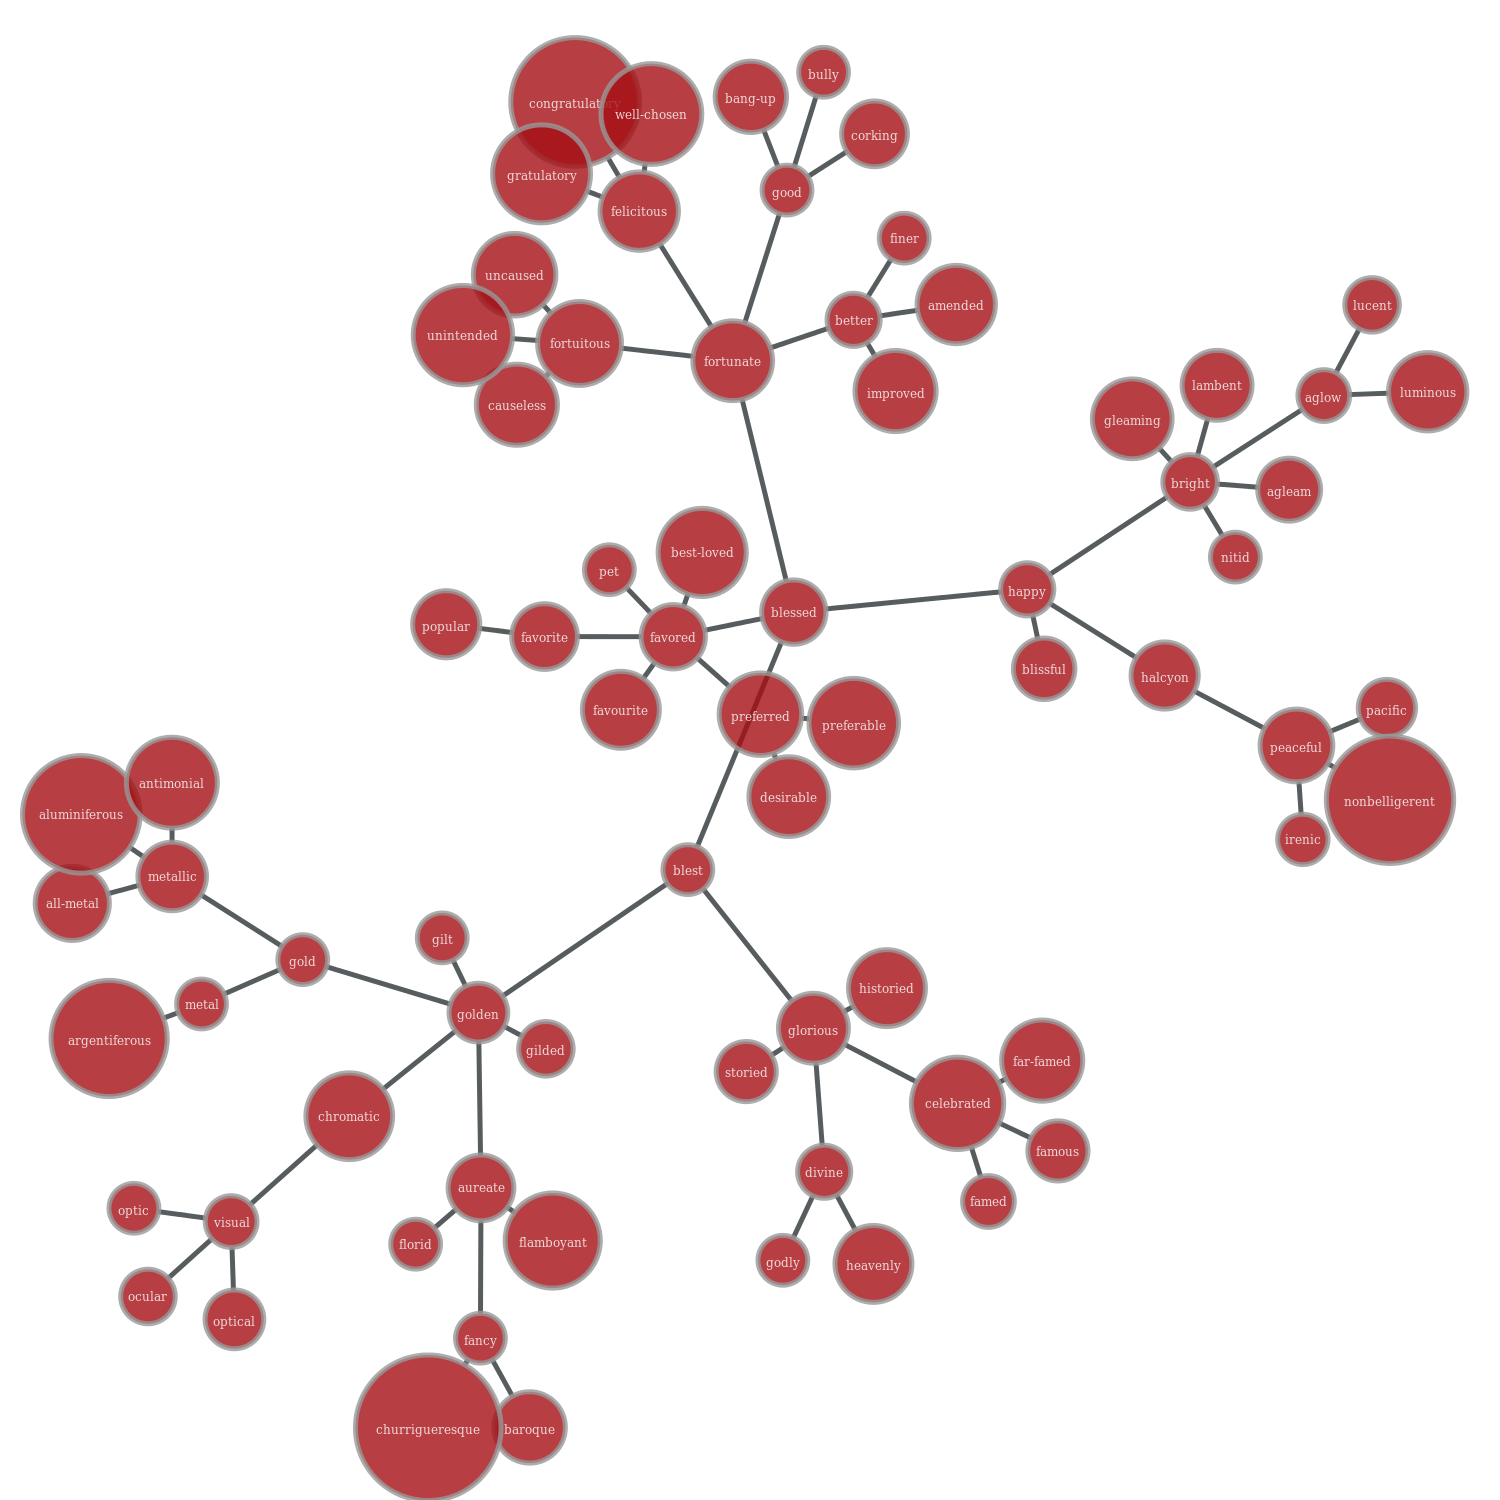
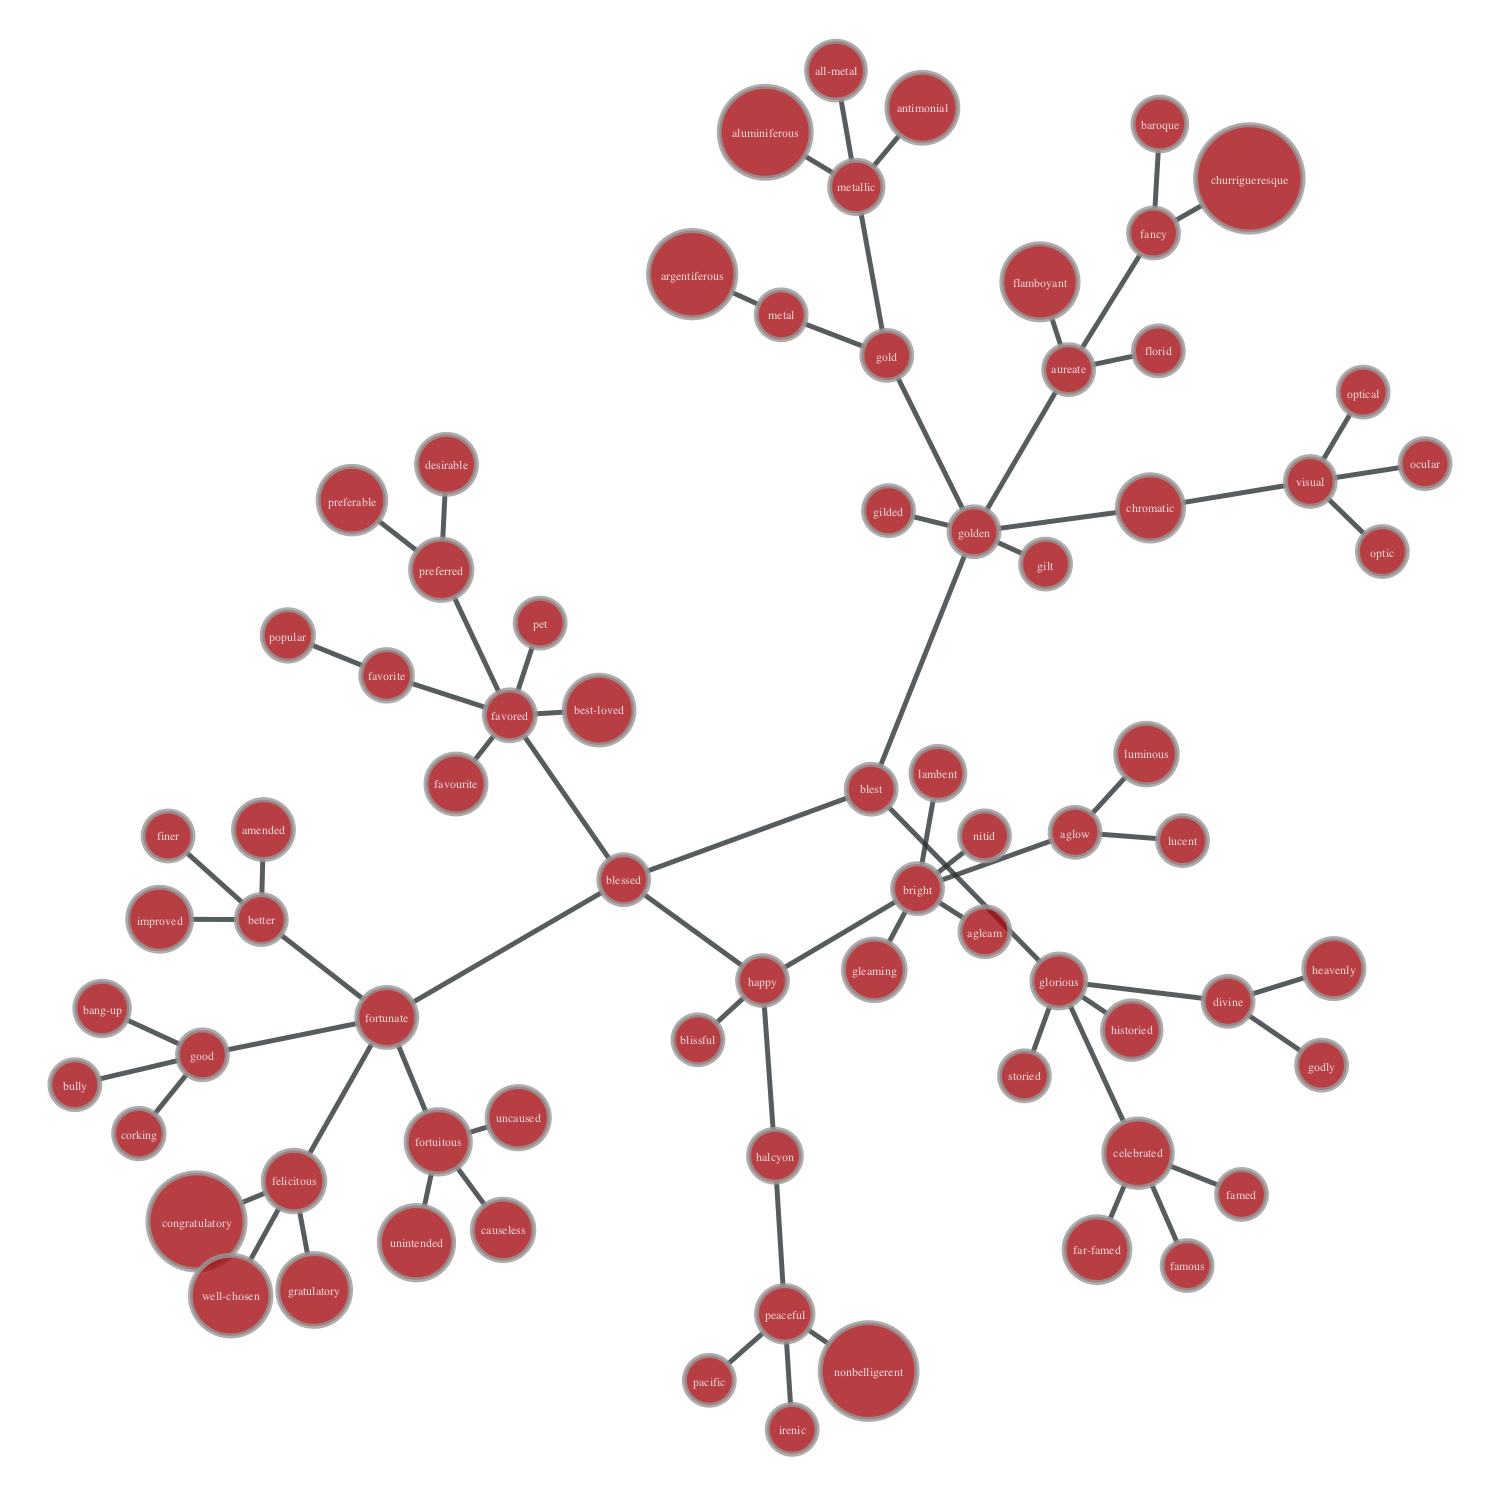
improved print progress

Changed region(s): [[0.0, 0.0, 0.9813, 1.0]]

diff --git a/src/synonym_graph.py b/src/synonym_graph.py
@@ -14,50 +14,55 @@ from graph_tool.all import *
 
 class SynonymGraph:
 	"""
-	Graphs a network of synonyms based on random words in specified language and specified graph size
+	Graphs a network of synonyms based on random words in specified language and specified graph height
 	"""
-	def __init__(self,size=10,max_span=3,language='english',wordList=None,crawl=None):
+	def __init__(self,height=10,max_span=3,language='english',wordList=None,crawl=None):
 		"""
 		reads In file with all words in language. Creates node for each word and
 		creates verticies to corresponding synonyms
 		@params:
-			size		-optional  : 	# words to scrape and add synonyms
+			height		-optional  : 	# words to scrape and add synonyms
 			span 		-optional  : 	# synonyms to parse and add for each word
 			language   	-optional  : 	language to get words from
 			wordList 	-Optional  :    read from selected word list
-			crawl       -optional  :    crawling graph (String) where size is number of 
+			crawl       -optional  :    crawling graph (String) where height is number of 
 
 		"""
 		self._g = Graph(directed=False) 
 		self._v_prop = self._g.new_vertex_property("string") #map vertex (int) -> word (string)
 		self._verticies = {} #map of word (string) -> vertex (int)
 		self._language = language.upper()
-		self._size = size
+		self._height = height
 		self._maxSpan = max_span
 		self._isCrawlGraph = crawl is not None
+
+		# note that the actual size may vary (some words may not have max_span # synonyms)
+		self._maxPossibleSize = 	self._maxSpan ** (self._height + 1) - 1
 
 		if crawl is not None:
 			if type(crawl) is not str:
 				print "starting word {} is not a string ".format(crawl)
 				sys.exit(1)
-			return self._crawl(crawl)
+			self._printProgress(1,1,'created graph');
+			self._crawl(crawl)			
 
 		elif not self._createGraphFromList(wordList):
 			print "Error initializing graph"
 			sys.exit(1)
-
+		
+		self._printProgress(self._maxPossibleSize, self._maxPossibleSize, '{:<25}'.format("finished creating graph"))
 
 	def _crawl(self,currWord,iteration=0):
 		"""
 		crawls graph starting with specified word
 		"""
-		if iteration==self._size: return #stop condition
+		if iteration==self._height: return #stop condition
 		que = scraper.getSynonyms([currWord])
 		while not que.empty():
 			response = que.get()
 			if response is not None:
 				self._addNode(response['word'],response['syns'])
-				for syn in response['syns']: self._crawl(syn,iteration+1)
+				for syn in response['syns']: self._crawl(syn,iteration+1)				
 
 
 	def _createGraphFromList(self,wordList):
@@ -81,7 +86,7 @@ class SynonymGraph:
 		LOAD = 50 #load 100 words at a time for multithreading
 		words_added = 0
 		print 'Adding synonyms..'
-		while words_added <= self._size:
+		while words_added <= self._height:
 			words = []
 			for word in word_list[words_added:words_added+LOAD]:
 				words.append((word.rstrip('\n')).rstrip('\r').lower())
@@ -98,7 +103,7 @@ class SynonymGraph:
 				if response is not None:
 					words_added+=1
 					self._addNode(response['word'],response['syns'])
-					if (words_added >= self._size): return True
+					if (words_added >= self._height): return True
 
 		return True
 			
@@ -113,6 +118,7 @@ class SynonymGraph:
 		"""
 
 		#add vertex for word
+		self._printProgress(self._g.num_vertices(), self._maxPossibleSize, '{:<10}{:<15}'.format("Adding Word", word))
 		if not self._verticies.get(word):#create only if not already a node
 			v = self._g.add_vertex()
 			self._verticies[word] = v
@@ -135,31 +141,33 @@ class SynonymGraph:
 
 
 	def drawGraph(self):
-		print "drawing graph.."
+		self._printProgress(0,1,"drawing graph")
 		graph_draw(
 			self._g,
 			vertex_text=self._v_prop,
 			output_size=(1500,1500),
-			output="graphs/graph of synonmys in {} base size-{} span-{} - crawling - {}.png".format(self._language,self._size,self._maxSpan,self._isCrawlGraph))
+			output="graphs/graph of synonmys in {} base height-{} span-{} - crawling - {}.png".format(self._language,self._height,self._maxSpan,self._isCrawlGraph))
+		self._printProgress(1,1,"finished drawing graph")
 
-	def _printProgress (self,iteration, total, prefix = 'generating tree', suffix = '', decimals = 0, barLength = 40):
+	def _printProgress (self,iteration, total, msg, suffix = '', decimals = 0):
 	    """
 	    Call in a loop to create terminal progress bar
 	    @params:
 	        iteration   - Required  : current iteration (Int)
 	        total       - Required  : total iterations (Int)
-	        prefix      - Optional  : prefix string (Str)
+	        msg      	- Optional  : msg string (Str)
 	        suffix      - Optional  : suffix string (Str)
 	        decimals    - Optional  : positive number of decimals in percent complete (Int)
-	        barLength   - Optional  : character length of bar (Int)
 	    """
+	    barLength = 80
 	    formatStr       = "{0:." + str(decimals) + "f}"
 	    percents        = formatStr.format(100 * (iteration / float(total)))
 	    filledLength    = int(round(barLength * iteration / float(total)))
-	    bar             = '#' * filledLength + '-' * (barLength - filledLength)
+	    bar             = '=' * filledLength + '-' * (barLength - filledLength)
 
 
-	    sys.stdout.write('|%s| %s%s %s \r%s ' % ( prefix, bar, percents, '%', suffix)),
+	    # sys.stdout.write('[ %s %s%s %s \r%s' % ( msg, bar, percents, '%', suffix))
+	    sys.stdout.write('{:<30}[ {:<80} ]{}%  \r'.format(msg,bar,percents))
 	    if iteration == total:
 	        sys.stdout.write('\n')
 	    sys.stdout.flush()
@@ -167,7 +175,7 @@ class SynonymGraph:
 if __name__ == "__main__":
 	start_time = time.time()
 	#for more word lists : https://github.com/imsky/wordlists
-	g = SynonymGraph(size=4,max_span=3,crawl="happy")
+	g = SynonymGraph(height=2,max_span=3,crawl="happy")
 	g.drawGraph()
 
 	print("--- executed in %s seconds ---" % (time.time() - start_time))
